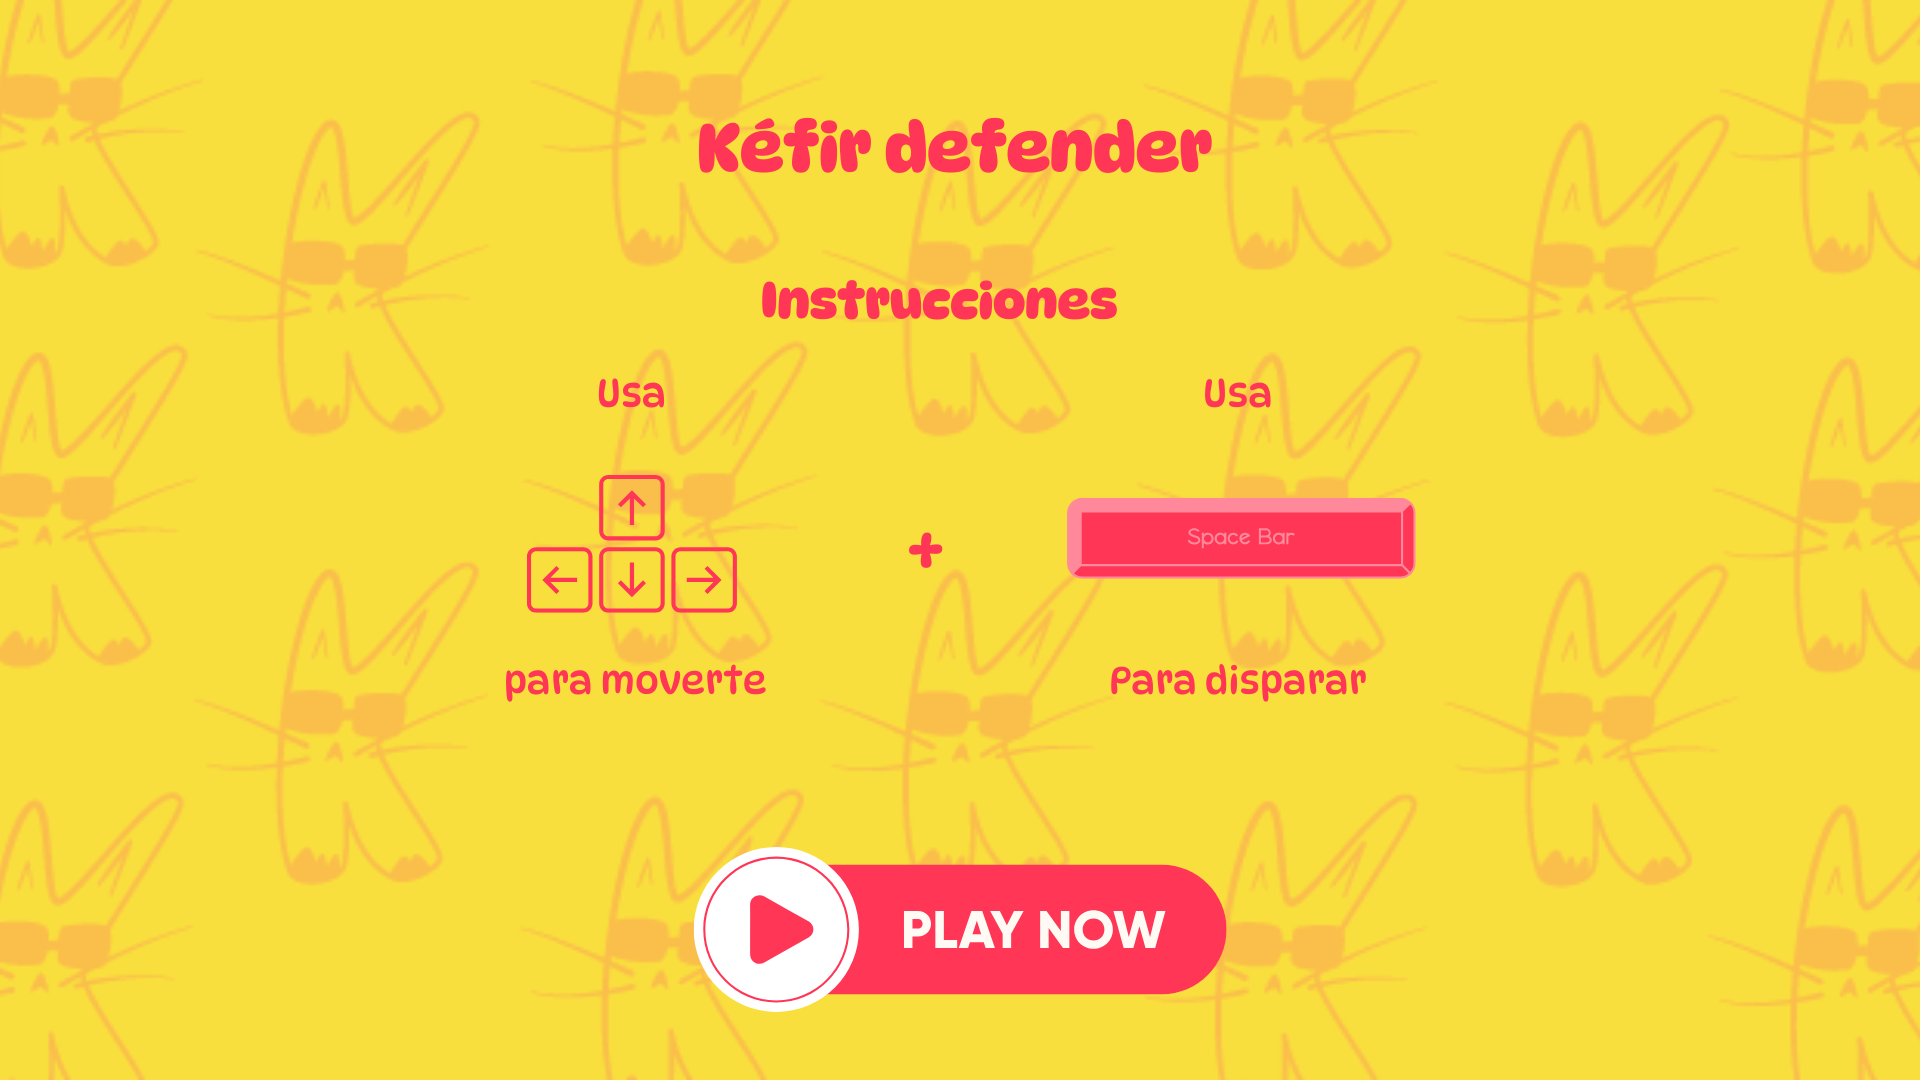
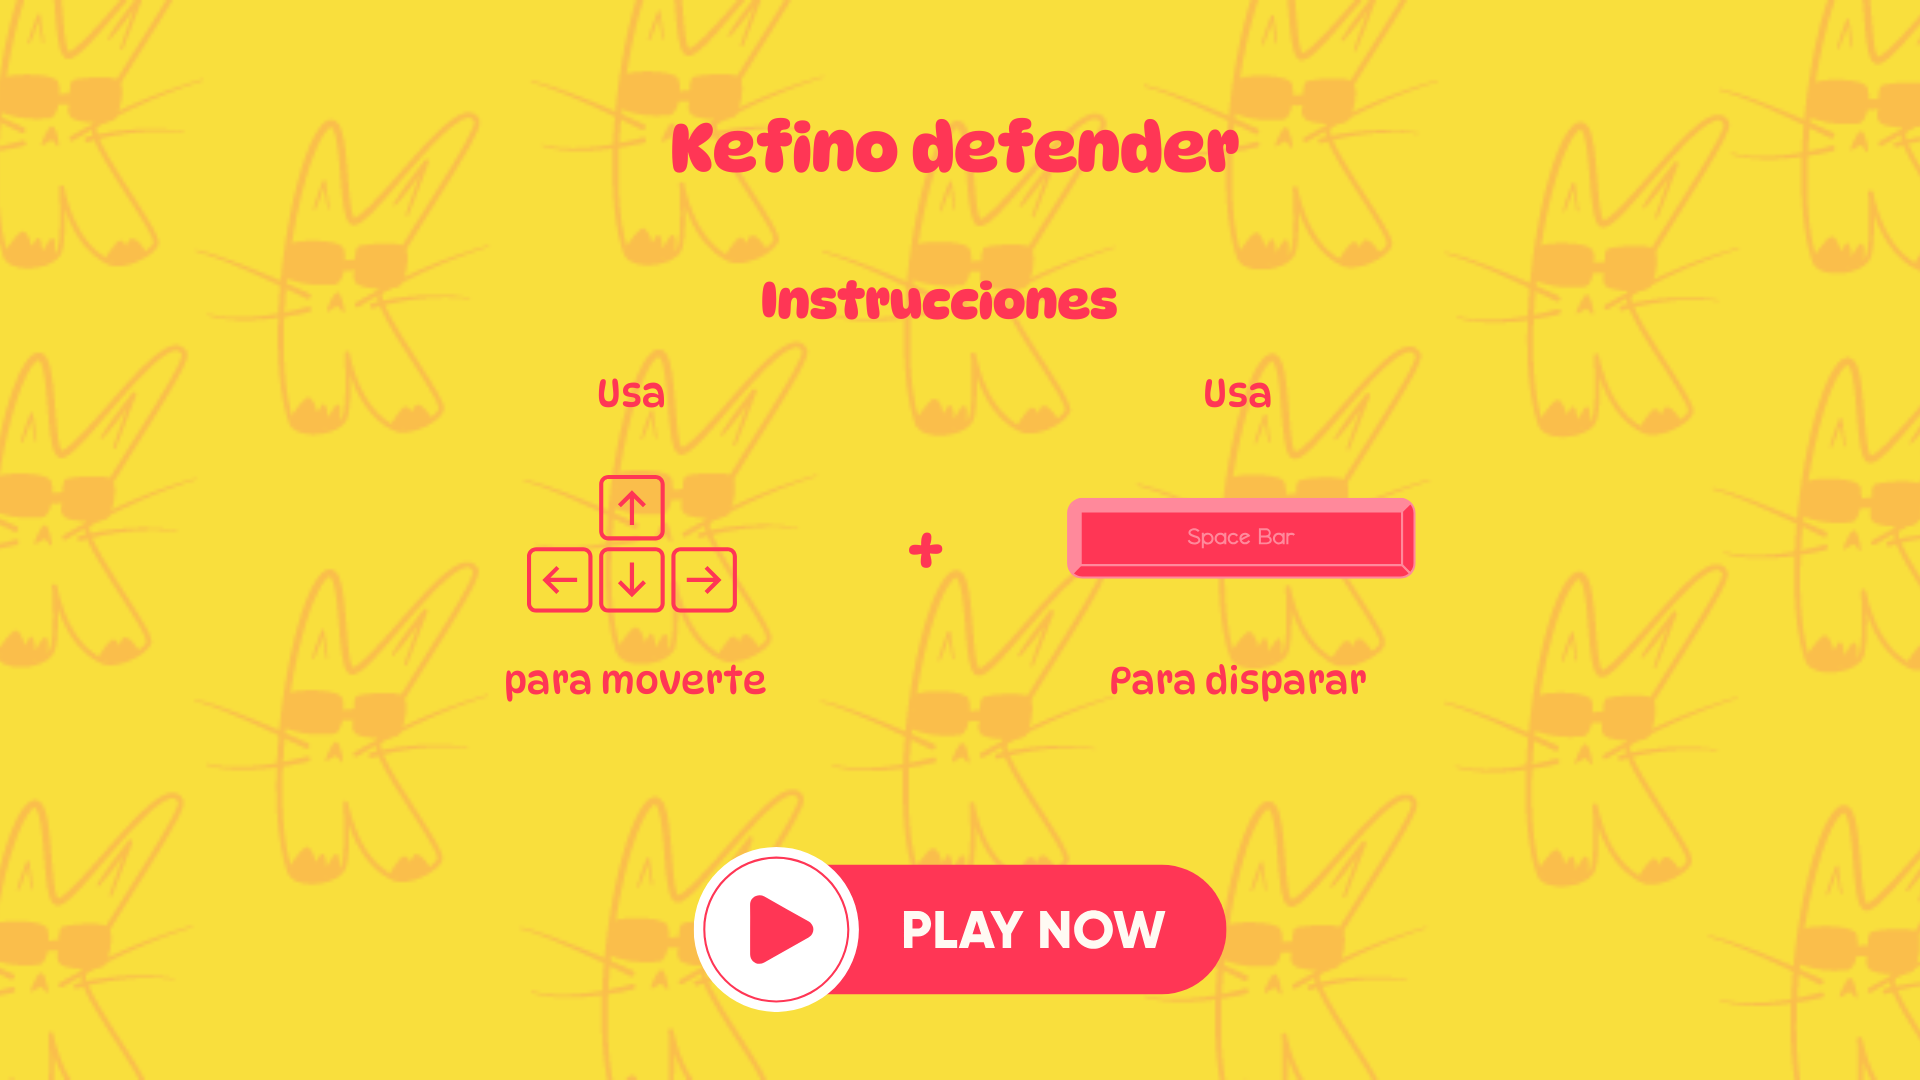
cambio imagen inicial, enemigos mas grandes y mas lentos

Changed region(s): [[0.3438, 0.0917, 0.6562, 0.1833]]

diff --git a/game.js b/game.js
@@ -44,11 +44,11 @@ const keys = {};
 
 function spawnEnemies() {
   enemies = [];
-  const rows = 5;
-  const cols = 10;
+  const rows = 4;
+  const cols = 8;
   const margin = 20;
-  const enemyWidth = 80;
-  const enemyHeight = 80;
+  const enemyWidth = 120;
+  const enemyHeight = 120;
   const totalWidth = cols * (enemyWidth + margin) - margin;
   const startX = (canvas.width - totalWidth) / 2;
   const startY = 50;
@@ -71,7 +71,7 @@ function updateEnemies() {
   let shouldReverse = false;
 
   // Ajustar velocidad en función del número de enemigos restantes
-  const speedMultiplier = 1 + (30 - enemies.length) * 0.8; // Ajusta como quieras
+  const speedMultiplier = 1 + (30 - enemies.length) * 0.5; // Ajusta como quieras
   const currentSpeed = baseEnemySpeed * speedMultiplier;
 
   enemies.forEach((e) => {
